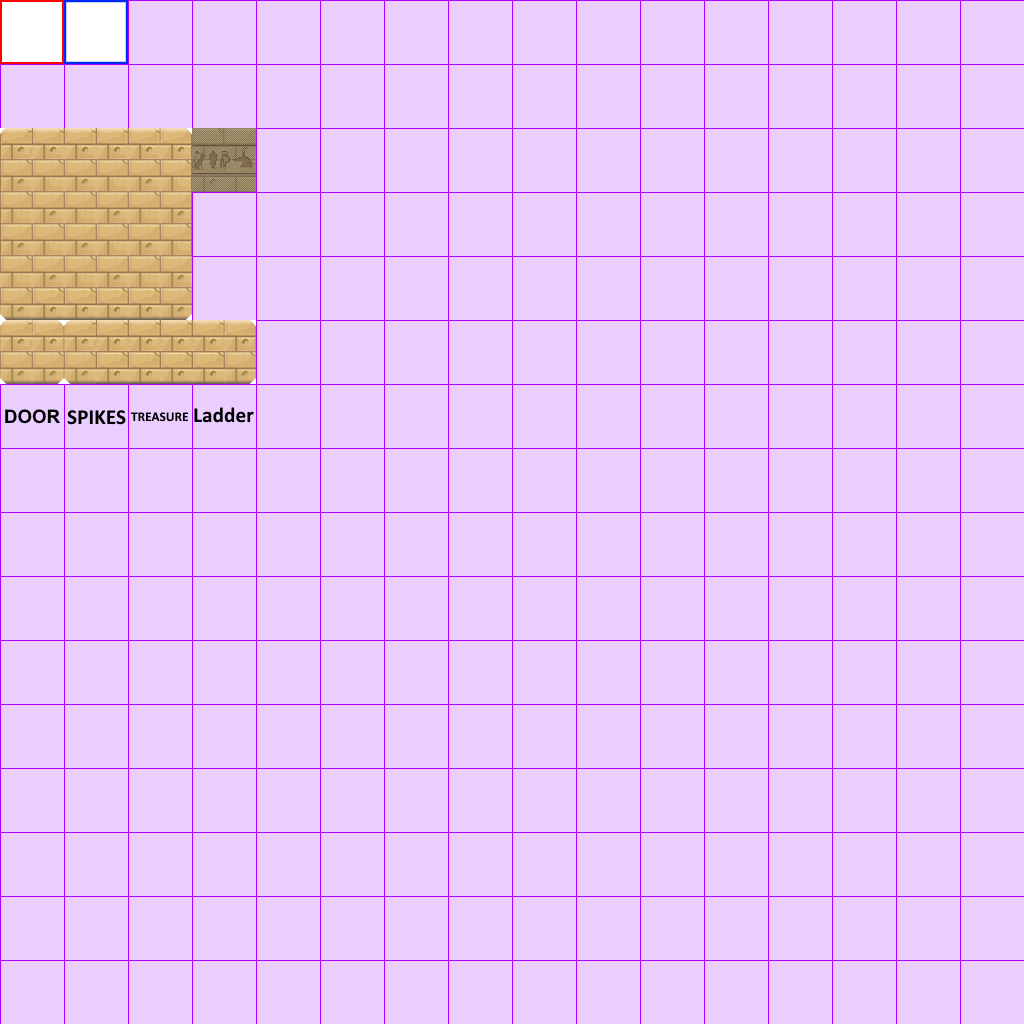
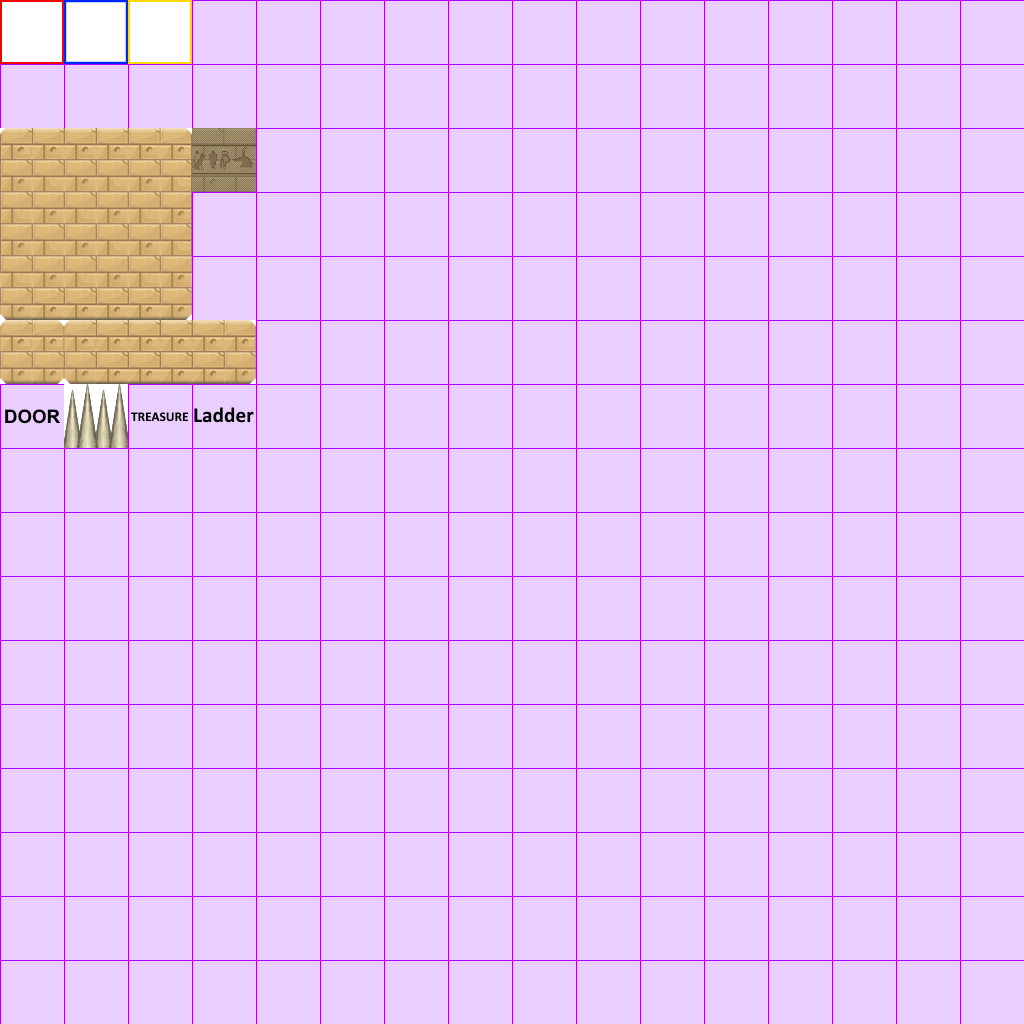
Removed need for solid layer. Small fixes.

Changed region(s): [[0.125, 0.0, 0.1875, 0.0625], [0.0625, 0.375, 0.125, 0.4375]]

diff --git a/core/src/pt/feup/jd/levels/Level.java b/core/src/pt/feup/jd/levels/Level.java
@@ -4,6 +4,7 @@ import java.util.ArrayList;
 import java.util.HashMap;
 
 import com.badlogic.gdx.assets.loaders.resolvers.InternalFileHandleResolver;
+import com.badlogic.gdx.graphics.Color;
 import com.badlogic.gdx.graphics.g2d.SpriteBatch;
 import com.badlogic.gdx.graphics.glutils.ShapeRenderer;
 import com.badlogic.gdx.maps.MapObject;
@@ -15,6 +16,7 @@ import com.badlogic.gdx.maps.tiled.TmxMapLoader;
 import com.badlogic.gdx.maps.tiled.renderers.OrthogonalTiledMapRenderer;
 import com.badlogic.gdx.math.Vector2;
 
+import pt.feup.jd.JDGame;
 import pt.feup.jd.Util;
 import pt.feup.jd.entities.Entity;
 import pt.feup.jd.entities.Player;
@@ -63,15 +65,18 @@ public class Level {
 		
 		for(int i = 0; i < tiles.length; i++) tiles[i] = Tile.AIR;
 		
-		TiledMapTileLayer tiled_tiles = (TiledMapTileLayer) map.getLayers().get("solid"); 
+		TiledMapTileLayer tiled_tiles = (TiledMapTileLayer) map.getLayers().get("main"); 
 		for(int yy = 0; yy<map_height; yy++) {
 			for(int xx = 0; xx<map_width; xx++) {
 				TiledMapTileLayer.Cell cell = tiled_tiles.getCell(xx, yy);
+				/*System.out.print("\t"+((cell == null) ? " " : 
+					"("+((cell.getTile().getId()-1) % 16)+", "+(cell.getTile().getId()-1)/16+")" 
+						));*/
 				if (cell != null) {
-					String cellType = (String) cell.getTile().getProperties().get("type");
-					tiles[yy*map_width+xx] = (cellType == null) ? Tile.AIR : Tile.valueOf(cellType);
+					tiles[yy*map_width+xx] = Tile.TILESET[cell.getTile().getId()-1];
 				}
 			}
+			//System.out.println();	System.out.println();
 		}
 		
 		spawns = new HashMap<String, Vector2>();
@@ -140,9 +145,9 @@ public class Level {
 				// Fireball Trap
 				else if (type.equals("fireballtrap")) {
 					FireballTrap trap = new FireballTrap(this, o.getName(), p.x, p.y);
-					if (o.getProperties().containsKey("rotation")) trap.rotation =  ((Float) o.getProperties().get("rotation"));
-					if (o.getProperties().containsKey("delay")) trap.fireDelay =  ((Float) o.getProperties().get("delay"));
-					if (o.getProperties().containsKey("speed")) trap.fireSpeed =  ((Float) o.getProperties().get("speed"));
+					if (o.getProperties().containsKey("rotation")) trap.rotation =  Float.parseFloat((String) o.getProperties().get("rotation"));
+					if (o.getProperties().containsKey("delay")) trap.fireDelay =  Float.parseFloat((String) o.getProperties().get("delay"));
+					if (o.getProperties().containsKey("speed")) trap.fireSpeed =  Float.parseFloat((String) o.getProperties().get("speed"));
 					if (o.getProperties().containsKey("trigger")) trap.trigger =  ((String) o.getProperties().get("trigger"));
 					tileEntities.put(trap.name, trap);
 				}
@@ -219,6 +224,20 @@ public class Level {
 		
 	public void renderDebug(ShapeRenderer shapeRenderer) {
 		for(Entity e : entities) e.renderDebug(shapeRenderer);
+		
+		shapeRenderer.setColor(Color.RED);
+		for(int yy = 0; yy<map_height; yy++) {
+			for(int xx = 0; xx<map_width; xx++) {
+				if (!tiles[yy*map_width+xx].solid) continue;
+				
+				shapeRenderer.rect(xx*JDGame.TILE_SIZE, yy*JDGame.TILE_SIZE,JDGame.TILE_SIZE,JDGame.TILE_SIZE);
+			}
+		}
+		
+		shapeRenderer.setColor(Color.BLUE);
+		for(Trigger t : triggers.values()) {
+			shapeRenderer.rect(t.getX(), t.getY(), t.getW(), t.getH());
+		}
 	}
 
 	public Vector2 getCameraPosition() { return cameraPosition; }

diff --git a/core/src/pt/feup/jd/levels/Tile.java b/core/src/pt/feup/jd/levels/Tile.java
@@ -3,12 +3,34 @@ package pt.feup.jd.levels;
 public enum Tile {
 	AIR(false, false),
 	SOLID(true, true),
-	LADDER(false, true), ;
+	LADDER(false, true), 
+	SPIKE(true, true)
+	;
 	
 	public boolean solid, jumpable;
 	
 	Tile(boolean solid, boolean jumpable) {
 		this.solid = solid;
 		this.jumpable = jumpable;
+	};
+	
+	public static Tile TILESET[] = {
+/*			0		1		2		3		4		5		6		7		8		9		10		11		12		13		14		15	*/
+/*00*/		SOLID,	LADDER,	SPIKE,	AIR,	AIR,	AIR,	AIR,	AIR,	AIR,	AIR,	AIR,	AIR,	AIR,	AIR,	AIR,	AIR,
+/*01*/		AIR,	AIR,	AIR,	AIR,	AIR,	AIR,	AIR,	AIR,	AIR,	AIR,	AIR,	AIR,	AIR,	AIR,	AIR,	AIR,
+/*02*/		SOLID,	SOLID,	SOLID,	AIR,	AIR,	AIR,	AIR,	AIR,	AIR,	AIR,	AIR,	AIR,	AIR,	AIR,	AIR,	AIR,
+/*03*/		SOLID,	SOLID,	SOLID,	AIR,	AIR,	AIR,	AIR,	AIR,	AIR,	AIR,	AIR,	AIR,	AIR,	AIR,	AIR,	AIR,
+/*04*/		SOLID,	SOLID,	SOLID,	AIR,	AIR,	AIR,	AIR,	AIR,	AIR,	AIR,	AIR,	AIR,	AIR,	AIR,	AIR,	AIR,
+/*05*/		SOLID,	SOLID,	SOLID,	SOLID,	AIR,	AIR,	AIR,	AIR,	AIR,	AIR,	AIR,	AIR,	AIR,	AIR,	AIR,	AIR,
+/*06*/		AIR,	SPIKE,	AIR,	LADDER,	AIR,	AIR,	AIR,	AIR,	AIR,	AIR,	AIR,	AIR,	AIR,	AIR,	AIR,	AIR,
+/*07*/		AIR,	AIR,	AIR,	AIR,	AIR,	AIR,	AIR,	AIR,	AIR,	AIR,	AIR,	AIR,	AIR,	AIR,	AIR,	AIR,
+/*08*/		AIR,	AIR,	AIR,	AIR,	AIR,	AIR,	AIR,	AIR,	AIR,	AIR,	AIR,	AIR,	AIR,	AIR,	AIR,	AIR,
+/*09*/		AIR,	AIR,	AIR,	AIR,	AIR,	AIR,	AIR,	AIR,	AIR,	AIR,	AIR,	AIR,	AIR,	AIR,	AIR,	AIR,
+/*10*/		AIR,	AIR,	AIR,	AIR,	AIR,	AIR,	AIR,	AIR,	AIR,	AIR,	AIR,	AIR,	AIR,	AIR,	AIR,	AIR,
+/*11*/		AIR,	AIR,	AIR,	AIR,	AIR,	AIR,	AIR,	AIR,	AIR,	AIR,	AIR,	AIR,	AIR,	AIR,	AIR,	AIR,
+/*12*/		AIR,	AIR,	AIR,	AIR,	AIR,	AIR,	AIR,	AIR,	AIR,	AIR,	AIR,	AIR,	AIR,	AIR,	AIR,	AIR,
+/*13*/		AIR,	AIR,	AIR,	AIR,	AIR,	AIR,	AIR,	AIR,	AIR,	AIR,	AIR,	AIR,	AIR,	AIR,	AIR,	AIR,
+/*14*/		AIR,	AIR,	AIR,	AIR,	AIR,	AIR,	AIR,	AIR,	AIR,	AIR,	AIR,	AIR,	AIR,	AIR,	AIR,	AIR,
+/*15*/		AIR,	AIR,	AIR,	AIR,	AIR,	AIR,	AIR,	AIR,	AIR,	AIR,	AIR,	AIR,	AIR,	AIR,	AIR,	AIR
 	};
 }

diff --git a/core/src/pt/feup/jd/entities/Entity.java b/core/src/pt/feup/jd/entities/Entity.java
@@ -23,8 +23,6 @@ public class Entity {
 	public float vx, vy;
 	public int direction;
 	
-	public float efx, efy, eff;
-	
 	public boolean colideWithLevel;
 	public float bounciness;
 	public boolean applyGravity;
@@ -33,6 +31,7 @@ public class Entity {
 	public Sprite sprite;
 	public float anim_timer, anim_speed; 
 	public int anim_index;
+	public float rotation;
 	
 	
 	public float health;
@@ -40,6 +39,8 @@ public class Entity {
 	public boolean dead;
 	
 	public boolean remove = true;
+
+	
 	
 	public Entity(Level level) {
 		this.level = level;
@@ -65,9 +66,7 @@ public class Entity {
 		damage_anim_delay = 1;
 		remove = false;
 		
-		efx = 0;
-		efy = 0;
-		eff = 0.95f;
+		rotation = 0;
 	}
 	
 	public void preupdate(float delta) {
@@ -96,9 +95,6 @@ public class Entity {
 			}
 		}
 		
-		// External force
-		efx *= eff;
-		efy *= eff;
 	}
 	
 	public void damage(float damage) {
@@ -112,8 +108,8 @@ public class Entity {
 	}
 
 	public void postupdate(float delta) {
-		x += (vx+efx)*delta;
-		y += (vy+efy)*delta;
+		x += vx*delta;
+		y += vy*delta;
 		
 		if(sprite != null) anim_index %= sprite.frames.size();
 	}
@@ -136,7 +132,7 @@ public class Entity {
 				float s = damage_anim_timer / damage_anim_delay;
 				color.set(1,1-s,1-s,1);
 			}
-			sprite.render(batch,anim_index, x,y, direction, 1, color);
+			sprite.render(batch,anim_index, x,y, direction, 1, rotation, color);
 		}
 	}
 	
@@ -232,11 +228,6 @@ public class Entity {
 			if (level.getTile(cx, cy).jumpable)
 				return true;
 		return false;
-	}
-	
-	public void addForce(float x, float y) {
-		efx += x;
-		efy += y;		
 	}
 
 	

diff --git a/core/src/pt/feup/jd/entities/Player.java b/core/src/pt/feup/jd/entities/Player.java
@@ -13,7 +13,8 @@ import pt.feup.jd.levels.Tile;
 public class Player extends Entity {
 	
 	public static final float MOVE_SPEED = 5*JDGame.TILE_SIZE;
-	public static final float JUMP_SPEED = (float) Math.sqrt(2*Entity.GRAVITY*2.5*JDGame.TILE_SIZE); 
+	public static final float JUMP_SPEED = (float) Math.sqrt(2*Entity.GRAVITY*2.5*JDGame.TILE_SIZE);
+	public static final float LADDER_SPEED = 4*JDGame.TILE_SIZE;
 	
 	static Sprite idle_anim;
 	static Sprite walk_anim;
@@ -106,10 +107,10 @@ public class Player extends Entity {
 		
 		if (onLadder) {
 			if (Gdx.input.isKeyPressed(JDGame.keyBindings.get(JDGame.Keys.UP))) {
-				vy = 2*JDGame.TILE_SIZE;
+				vy = LADDER_SPEED;
 			} else
 			if (Gdx.input.isKeyPressed(JDGame.keyBindings.get(JDGame.Keys.DOWN))) {
-				vy = -2*JDGame.TILE_SIZE;
+				vy = -LADDER_SPEED;
 			} else {
 				vy = 0;
 			}

diff --git a/core/src/pt/feup/jd/Sprite.java b/core/src/pt/feup/jd/Sprite.java
@@ -26,21 +26,21 @@ public class Sprite {
 	
 	static Affine2 t = new Affine2();
 	static Color color = new Color();
-	public void render(SpriteBatch batch,int anim_index, float x, float y, float scaleX, float scaleY, Color color) {
-		
-		int ts = JDGame.TILE_SIZE;
+	public void render(SpriteBatch batch,int anim_index, float x, float y, float scaleX, float scaleY, float rotation, Color color) {
 		
 		TextureRegion s = frames.get(anim_index);
+		int w = s.getRegionWidth(), h = s.getRegionHeight();
 		
 		t.idt();
 		t.translate((int) x, (int) y);
 		t.scale(scaleX, scaleY);
-		t.translate(-ts/2, -ts/2);
+		t.rotate(rotation);
+		t.translate(-w/2, -h/2);
 	
 		
 		color.set(color);
 		batch.setColor(color);
-		batch.draw(s, ts, ts, t);
+		batch.draw(s, w, h, t);
 		batch.setColor(Color.WHITE);
 	}
 }

diff --git a/core/src/pt/feup/jd/levels/FireballTrap.java b/core/src/pt/feup/jd/levels/FireballTrap.java
@@ -38,11 +38,11 @@ public class FireballTrap extends TileEntity {
 	public void update(float delta) {
 		super.update(delta);
 		
-		//rotation += 0.25f*delta*360;
 		
 		fireTimer = Util.stepTo(fireTimer, 0, delta);
 		if (fireTimer == 0 && (trigger == null || level.triggers.get(trigger).active())) {
 			Fireball b = (Fireball) new Fireball(level).moveTo(x, y);
+			b.rotation = rotation;
 			b.vx = (float) (fireSpeed * Math.cos(rotation * Util.degToRad));
 			b.vy = (float) (fireSpeed * Math.sin(rotation * Util.degToRad));
 			

diff --git a/core/src/pt/feup/jd/entities/Bullet.java b/core/src/pt/feup/jd/entities/Bullet.java
@@ -14,7 +14,8 @@ public class Bullet extends Entity {
 	static void initSprites() {
 		initSprites = true;
 		default_anim = new Sprite();
-		default_anim.addFrame(Assets.sprites64[3][0]);
+		default_anim.addFrame(Assets.sprites32[4][0]);
+		
 	}
 	
 	float damage;
@@ -24,6 +25,7 @@ public class Bullet extends Entity {
 		
 		if (!initSprites) initSprites();
 		
+		sprite = default_anim;
 		
 		applyGravity = false;
 		

diff --git a/core/src/pt/feup/jd/levels/Lever.java b/core/src/pt/feup/jd/levels/Lever.java
@@ -44,9 +44,9 @@ public class Lever extends TileEntity implements Trigger {
 	}
 
 	@Override
-	public float getX() { return x; }
+	public float getX() { return x - JDGame.TILE_SIZE/2; }
 	@Override
-	public float getY() { return y; }
+	public float getY() { return y - JDGame.TILE_SIZE/2; }
 	@Override
 	public float getW() { return JDGame.TILE_SIZE; }
 	@Override

diff --git a/core/src/pt/feup/jd/entities/Fireball.java b/core/src/pt/feup/jd/entities/Fireball.java
@@ -36,11 +36,12 @@ public class Fireball extends Entity {
 		damage = 25f;
 	}
 
-	@Override
-	public void update(float delta) {
-		super.update(delta);
 		
-		if (vx == 0 && vy == 0) remove = true;
+	@Override
+	public void levelCollision(float nx, float ny) {
+		super.levelCollision(nx, ny);
+		
+		remove = true;
 	}
 	
 	@Override
